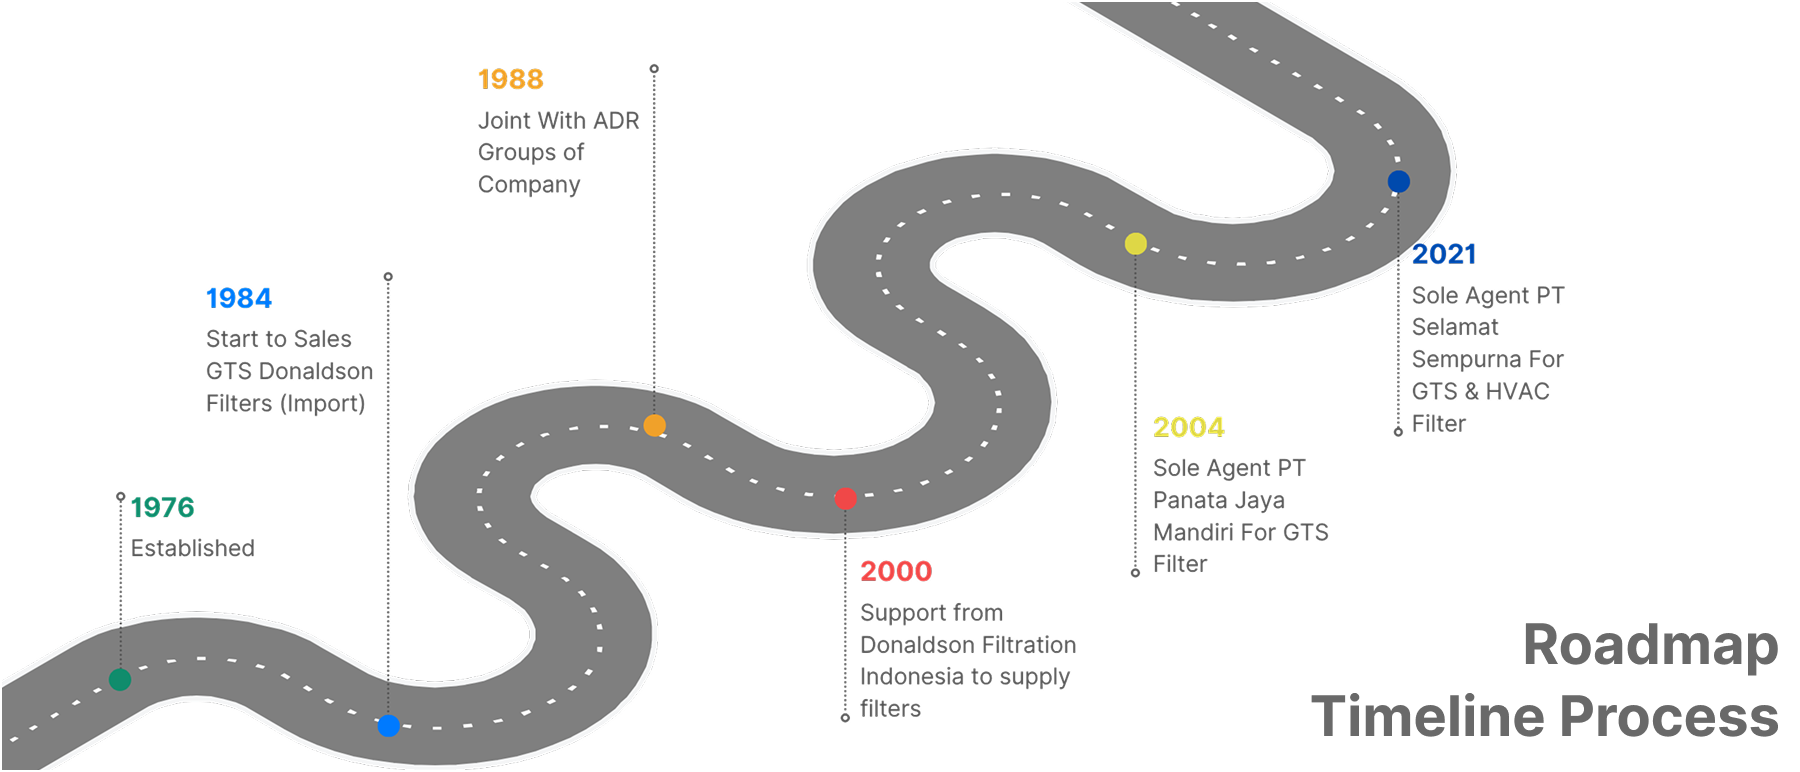
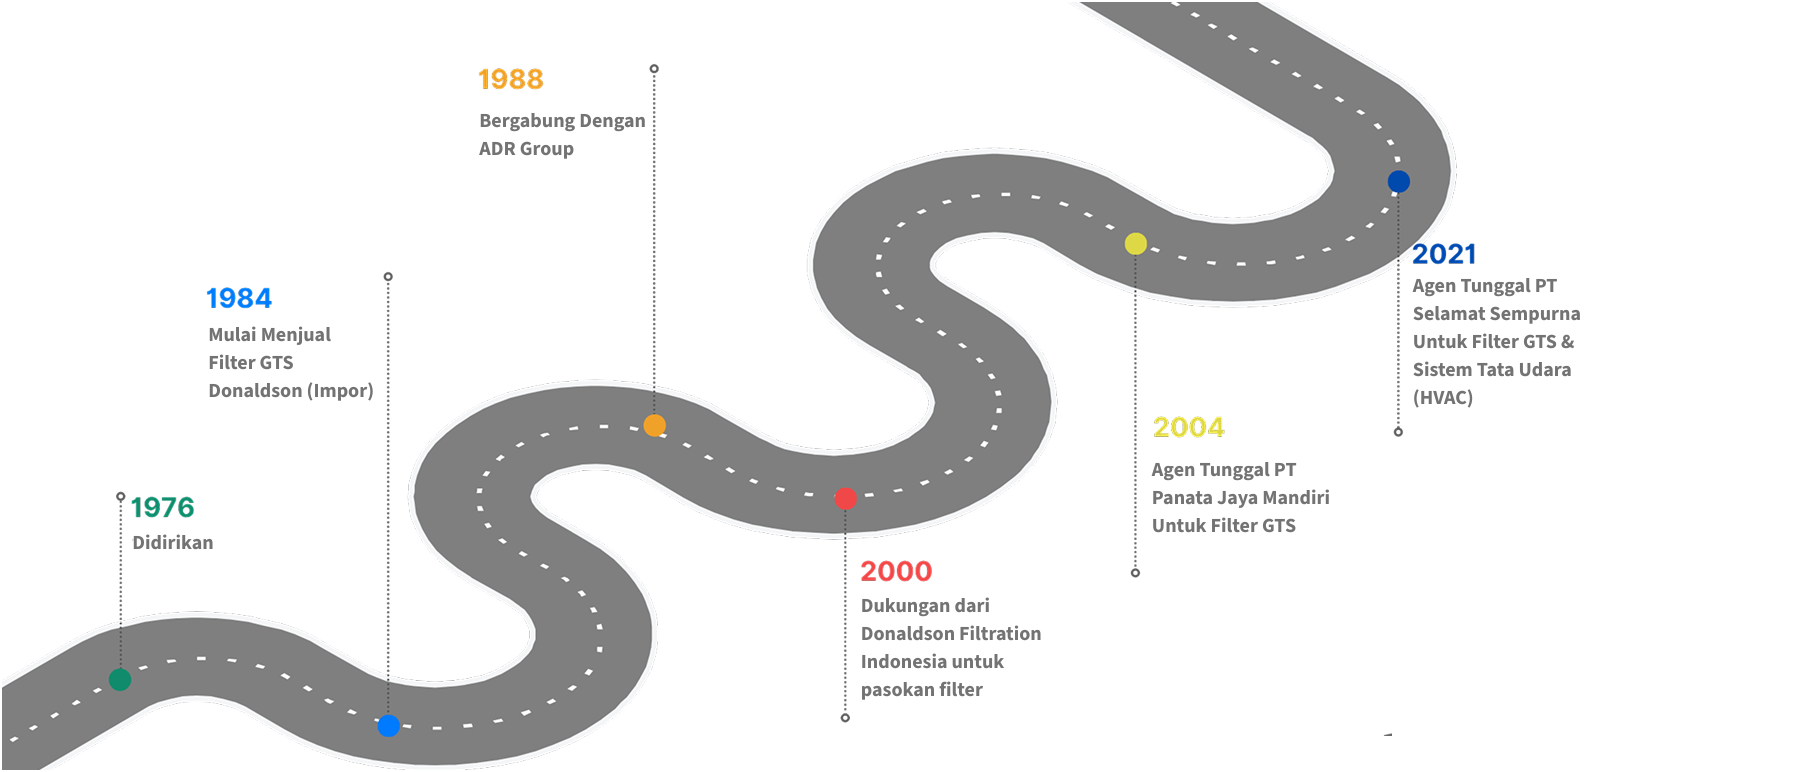
wip

diff --git a/src/pages/Kontak.tsx b/src/pages/Kontak.tsx
@@ -178,13 +178,17 @@ const Kontak = () => {
                 <h3 className="font-semibold text-gray-800">
                   PT Mangatur Dharma - Jakarta
                 </h3>
+                <p className="text-gray-600">ADR Tower, Lantai 20.</p>
                 <p className="text-gray-600">
-                  ADR Tower. Pantai Indah Kapuk St Boulevard, RT.6/RW.2,
+                  Pantai Indah Kapuk Boulevard, Jakarta 14470 - Indonesia
                 </p>
-                <p className="text-gray-600">
-                  Kamal Muara, Penjaringan, North Jakarta City, Jakarta 14470
-                </p>
-                <p className=" mt-5">Telp. 021 – 598 7227 / 598 7235</p>
+
+                <div className="mt-5 grid grid-cols-[3rem_1fr] gap-x-2">
+                  <span>Telp.</span>
+                  <span>(62-21) 3951 8888</span>
+                  <span>Fax. </span>
+                  <span>(62-21) 3951 8880</span>
+                </div>
               </div>
             </div>
           </div>
@@ -200,9 +204,14 @@ const Kontak = () => {
                 </p>
                 <p className="text-gray-600">
                   {" "}
-                  Desa Kadujaya, Bitung, Tangerang 15810
+                  Desa Kadujaya, Bitung, Tangerang 15810 - Indonesia
                 </p>
-                <p className=" mt-5">Telp. 021 – 598 7227 / 598 7235</p>
+                <div className="mt-5 grid grid-cols-[3rem_1fr] gap-x-2">
+                  <span>Telp 1.</span>
+                  <span>(62-21) 598 7227</span>
+                  <span>Telp 2.</span>
+                  <span>(62-21) 598 7235</span>
+                </div>
               </div>
             </div>
           </div>

diff --git a/src/pages/Index.tsx b/src/pages/Index.tsx
@@ -107,9 +107,9 @@ const Index = () => {
                   className="w-10 h-10 text-primary"
                 />
               </div>
-              <h3 className="font-semibold text-primary mb-2">Automotive</h3>
+              <h3 className="font-semibold text-primary mb-2">Otomotif</h3>
               <p className="text-sm text-gray-600">
-                Fuel Filter, Air Filter, Oil Filter
+                Filter Bensin, Filter Udara, Filter Oli
               </p>
             </div>
 
@@ -124,9 +124,9 @@ const Index = () => {
                   className="w-8 h-8 text-primary"
                 />
               </div>
-              <h3 className="font-semibold text-primary mb-2">Heavy Duty</h3>
+              <h3 className="font-semibold text-primary mb-2">Alat Berat</h3>
               <p className="text-sm text-gray-600">
-                Mining, Construction, Agriculture Filters
+                Pertambangan, Pembangunan, Filter Agrikultur
               </p>
             </div>
 
@@ -141,9 +141,9 @@ const Index = () => {
                   className="w-8 h-8 text-primary"
                 />
               </div>
-              <h3 className="font-semibold text-primary mb-2">Industrial</h3>
+              <h3 className="font-semibold text-primary mb-2">Industri</h3>
               <p className="text-sm text-gray-600">
-                Manufacturing, Power Plant, Compressor
+                Manufaktur, Pembangkit Listrik, Kompresor
               </p>
             </div>
 
@@ -156,9 +156,11 @@ const Index = () => {
                   className="w-8 h-8 text-primary"
                 />
               </div>
-              <h3 className="font-semibold text-primary mb-2">HVAC</h3>
+              <h3 className="font-semibold text-primary mb-2">
+                Sistem Tata Udara (HVAC)
+              </h3>
               <p className="text-sm text-gray-600">
-                Hospital, Pharmacy, Food & Beverage, Building
+                Rumah Sakit, Farmasi, Makanan & Minuman, Bangunan
               </p>
             </div>
           </div>

diff --git a/src/pages/JejakLangkah.tsx b/src/pages/JejakLangkah.tsx
@@ -18,10 +18,10 @@ const JejakLangkah = () => {
       </div>
 
       <div className="container mx-auto p-4 md:py-12">
-        <div className="bg-white rounded-lg shadow-lg border border-gray-300 hover:shadow-xl transition-shadow overflow-hidden relative ">
+        <div className="rounded-lg shadow-lg border border-gray-300 hover:shadow-xl transition-shadow overflow-hidden relative ">
           <img src={`${import.meta.env.BASE_URL}/assets/img/item/jejak-langkah.png`} alt="Company Roadmap Timeline" className="w-full h-auto object-cover" />
         </div>
-        <div className="mt-8 grid grid-cols-1 md:grid-cols-2 lg:grid-cols-3 gap-6 ">
+        {/* <div className="mt-8 grid grid-cols-1 md:grid-cols-2 lg:grid-cols-3 gap-6 ">
           <div className="bg-white p-6 rounded-lg shadow-md flex items-start space-x-4">
             <div className="w-12 h-12 bg-green-700 rounded-full flex items-center justify-center text-white font-bold text-lg flex-shrink-0">1976</div>
             <div>
@@ -69,7 +69,7 @@ const JejakLangkah = () => {
               <p className="text-gray-600 mt-1">Menjadi Sole Agent PT Selamat Sempurna untuk GTS, HVAC & Filter</p>
             </div>
           </div>
-        </div>
+        </div> */}
       </div>
     </Layout>
   );

diff --git a/src/pages/news/ContentDetail.tsx b/src/pages/news/ContentDetail.tsx
@@ -262,14 +262,12 @@ const ContentDetail = () => {
       <div className="container mx-auto px-4 py-8 md:py-12">
         {/* Featured Image - Full Width */}
         <div
-          className="w-full bg-gray-200 mb-4 overflow-hidden rounded-lg"
-          style={{ maxHeight: "500px" }}
+          className="w-full bg-gray-200 mb-4 rounded-lg"
         >
           <img
             src={imageUrl}
             alt={title}
-            className="w-full h-full object-cover"
-            style={{ maxHeight: "500px" }}
+            className="w-full h-full object-scale-down aspect-auto max-h-[500px]"
           />
         </div>
 

diff --git a/src/pages/our-category.tsx b/src/pages/our-category.tsx
@@ -2,9 +2,9 @@ import Layout from "@/components/Layout";
 
 const contents = [
   {
-    title: "Automotif",
+    title: "Otomotif",
     img: `${import.meta.env.BASE_URL}/assets/img/item/category/ktgr1.png`,
-    desc: "Kami menyediakan filtrasi yang dirancang khusus dari Kendaraan sedan, kendaraan penumpang, hingga kendaraan komersial. Filter kami membantu menjaga komponen mesin tetap bersih, sehingga usia mesin, dan memberikan performa mesin yang optimal selama berkendara.",
+    desc: "Kami menyediakan filtrasi yang dirancang khusus untuk kendaraan penumpang, hingga kendaraan komersial. Filter kami membantu menjaga komponen mesin tetap bersih, sehingga usia mesin, dan memberikan performa mesin yang optimal selama berkendara.",
   },
   {
     title: "Alat Berat",

diff --git a/src/pages/news/Penghargaan.tsx b/src/pages/news/Penghargaan.tsx
@@ -300,7 +300,7 @@ const Penghargaan = () => {
                 {award.cwdesc}
               </p>
             </TooltipTrigger>
-            <TooltipContent className="max-w-md max-h-60 overflow-auto bg-gray-900 text-white text-sm rounded-lg p-4 text-center">
+            <TooltipContent className="max-w-md max-h-60 overflow-auto bg-[#009FC3] text-white text-sm rounded-lg p-4 text-center">
               <p>{award.cwdesc}</p>
             </TooltipContent>
           </Tooltip>